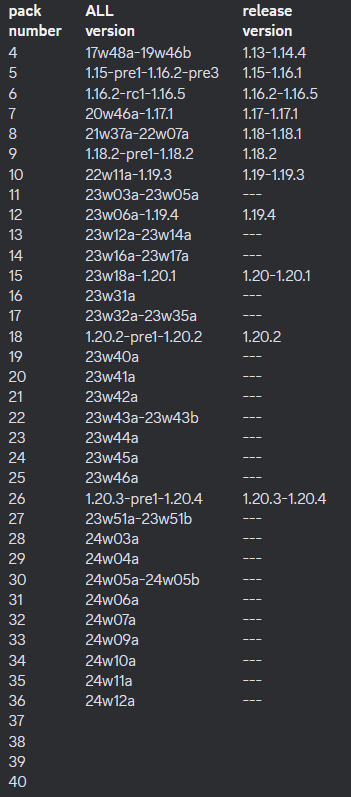
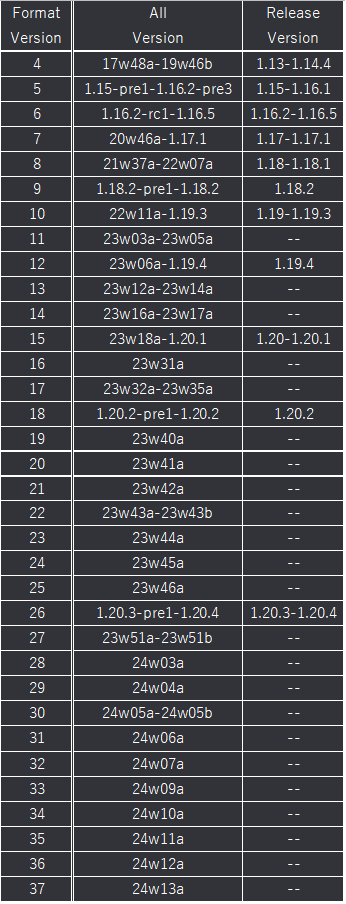
アプデ対応

Changed region(s): [[0.0, 0.0, 1.0, 1.0]]

diff --git a/cogs/admin.py b/cogs/admin.py
@@ -6,6 +6,34 @@ from discord.ext import commands
 
 from config.config import config
 
+TITLES = [
+    "再起動を行います",
+    "使用停止期間",
+    "荒らし対応中",
+    "既知のバグについて",
+    "アプデ対応中",
+    "HP公開中!!!!!"
+]
+
+DESCRIPTIONS = [
+    "すぐ復活するはず(笑)",
+    "ちょっと長めの再起動になります",
+    "`2024/xx/yy-hh:mm`頃～`2024/xx/yy-hh:mm`頃まで\n実家帰省のためBotが止まります",
+    "# **__リンクは絶対に踏まないでください__**",
+    "https://komaken.net/\n検索してね(^^♪"
+]
+
+
+class CNoticeConfirm(discord.ui.View):
+    def __init__(self, embed: discord.Embed):
+        super().__init__(timeout=None)
+        self.embed = embed
+
+    @discord.ui.button(label="OK")
+    async def ok(self, interaction: discord.Interaction, item: discord.ui.Item):
+        await interaction.response.edit_message(content="送信しました", view=None, embed=None)
+        await interaction.channel.send(embed=self.embed)
+
 
 class CAdminCog(commands.Cog):
     def __init__(self, bot: commands.Bot):
@@ -40,7 +68,7 @@ class CAdminCog(commands.Cog):
     @app_commands.checks.has_role(
         config.administrater_role_id
     )
-    async def cmaintenance(
+    async def cn(
         self,
         interaction: discord.Interaction,
         title: str,
@@ -49,20 +77,39 @@ class CAdminCog(commands.Cog):
         sub_description: str = ""
     ):
         mntJST_time = datetime.now()
+        title = title.replace("\\n", "\n")
+        description = description.replace("\\n", "\n")
 
-        mennte_embed = discord.Embed(
+        notice_embed = discord.Embed(
             title=title,
             description=description,
             color=0xff580f,
             timestamp=mntJST_time
         )
         if sub_title != "" and sub_description != "":
-            mennte_embed.add_field(
+            notice_embed.add_field(
                 name=sub_title,
                 value=sub_description,
             )
 
-        await interaction.response.send_message(embed=mennte_embed)
+        await interaction.response.send_message(
+            content="本当にこの内容で送信していいんか?",
+            embed=notice_embed,
+            ephemeral=True,
+            view=CNoticeConfirm(embed=notice_embed)
+        )
+
+    @cn.autocomplete("title")
+    async def cn_title(self, interaction: discord.Interaction, current: str):
+        return [
+            app_commands.Choice(name=n, value=n) for n in TITLES
+        ]
+
+    @cn.autocomplete("description")
+    async def cn_description(self, interaction: discord.Interaction, current: str):
+        return [
+            app_commands.Choice(name=n, value=n) for n in DESCRIPTIONS
+        ]
 
 
 async def setup(bot: commands.Bot):

diff --git a/cogs/cpackmcmeta.py b/cogs/cpackmcmeta.py
@@ -14,7 +14,7 @@ VERSION_NOT_FOUND = discord.Embed(
     title="エラー", description="バージョンが見つかりません。", color=0xff0000
 )
 
-
+# !============更新すること============
 RP_ALL_VERSIONS = [
     "13w24a-1.8.9",
     "15w31a-1.10.2",
@@ -45,9 +45,10 @@ RP_ALL_VERSIONS = [
     "---",
     "24w09a-24w10a",
     "24w11a",
-    "24w12a"
+    "24w12a",
+    "24w13a"
 ]
-
+# !============更新すること============
 DP_ALL_VERSIONS = [
     "17w48a-19w46b",
     "1.15-pre1-1.16.2-pre3",
@@ -81,16 +82,18 @@ DP_ALL_VERSIONS = [
     "24w09a",
     "24w10a",
     "24w11a",
-    "24w12a"
+    "24w12a",
+    "24w13a"
 ]
-
+# !============更新すること============
 LATEST_RELEASE_VERSION = "1.20.4"
 LATEST_RELEASE_RP = "22"
 LATEST_RELEASE_DP = "26"
-
-LATEST_SS_VERISON = "24w12a"
-LATEST_SS_VERISON_RP = "30"
-LATEST_SS_VERISON_DP = "36"
+# !============更新すること============
+LATEST_SS_VERISON = "24w13a"
+LATEST_SS_VERISON_RP = "31"
+LATEST_SS_VERISON_DP = "37"
+# !============更新すること============
 
 
 class PackMcmetaV(BaseModel):
